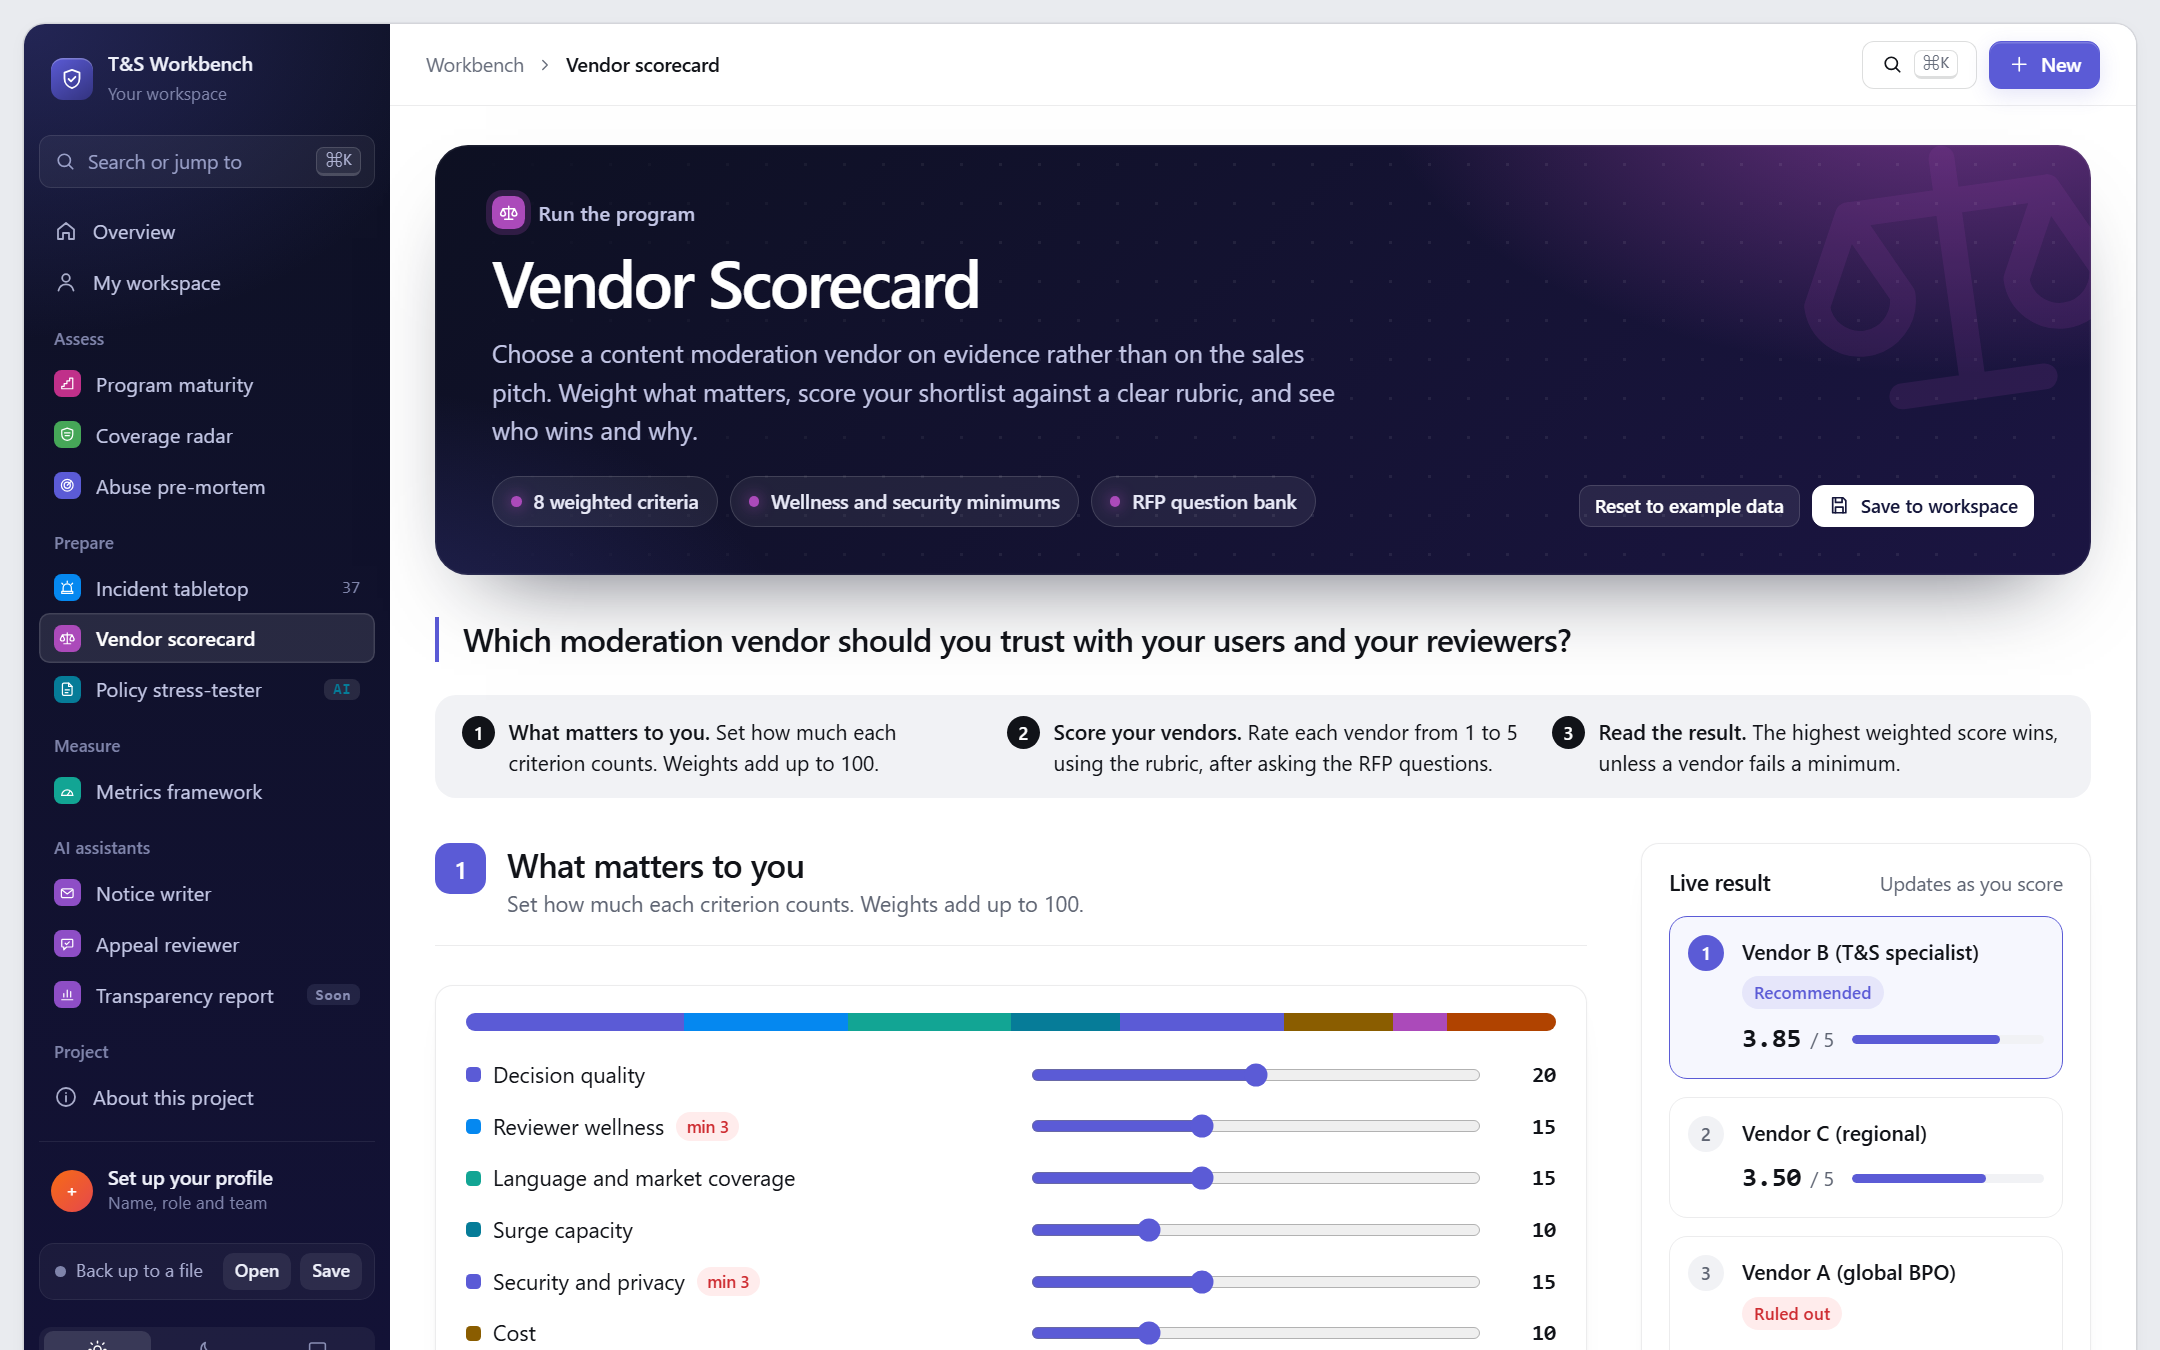
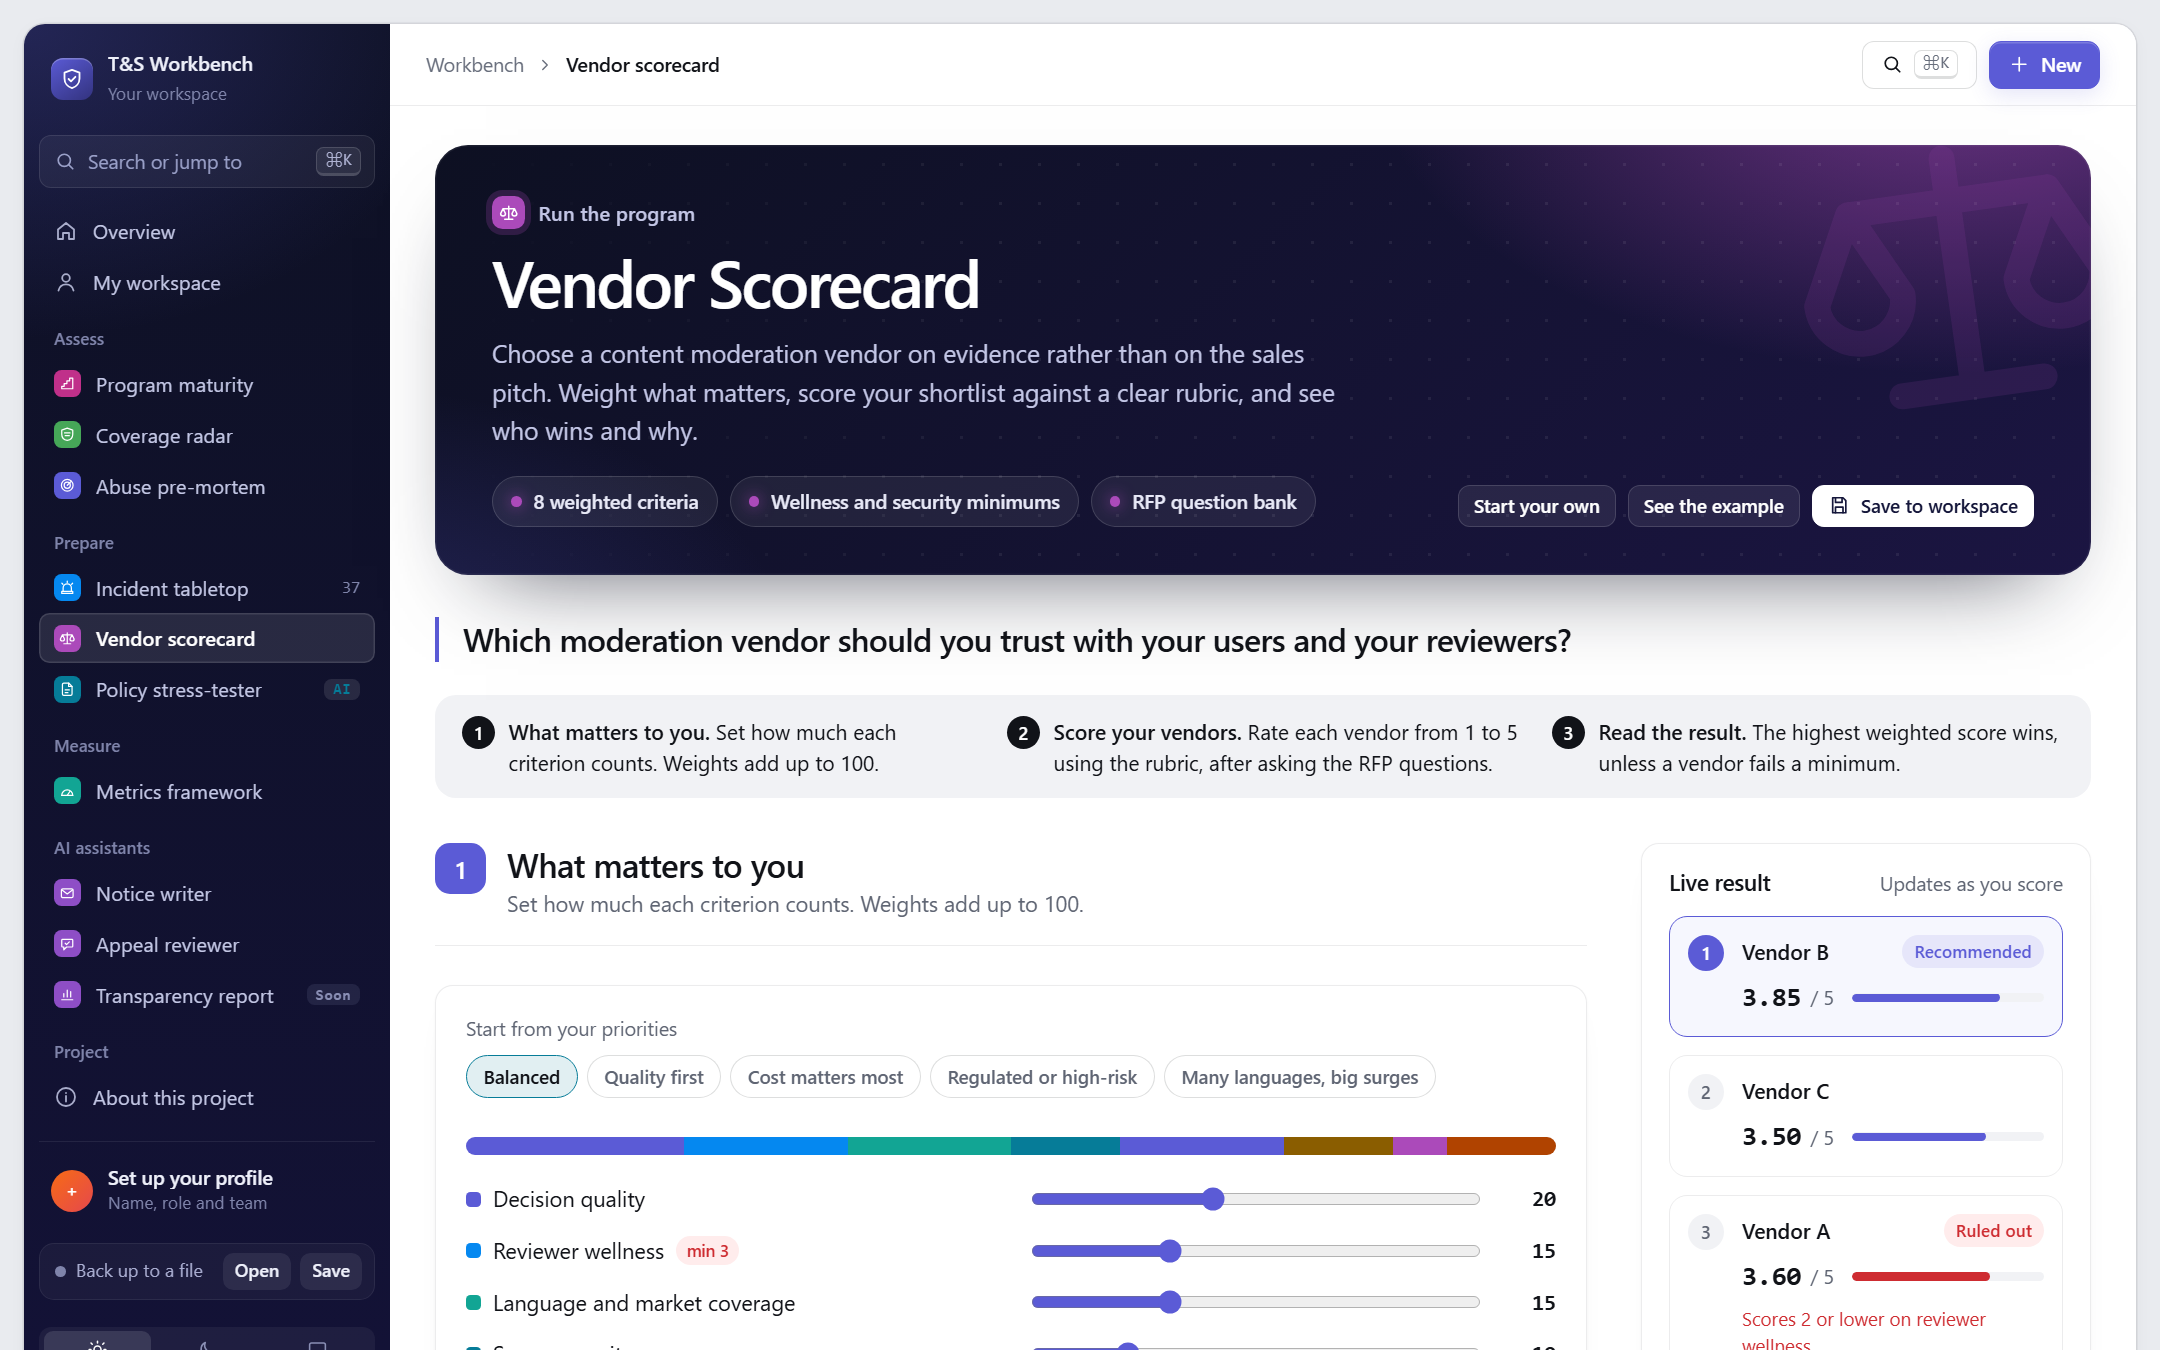
Vendor scorecard: any 2 to 4 vendors, neutral names, priority presets

diff --git a/README.md b/README.md
@@ -2,7 +2,7 @@
 
 > **Which moderation vendor should you trust with your users and your reviewers?**
 
-Weight what matters, score your shortlist against a clear 1-to-5 rubric on 8 criteria, and see who wins and why. Reviewer wellness and security are minimums: a vendor that fails them is out, however cheap.
+Compare any two to four moderation vendors: specialists, outsourcing firms, regional teams or tools. Weight what matters (or start from a preset such as regulated or cost-first), score your shortlist against a clear 1-to-5 rubric on 8 criteria, and see who wins and why. Reviewer wellness and security are minimums: a vendor that fails them is out, however cheap.
 
 **[Try it live](https://stevenmacchia.github.io/ts-workbench/#vendors)** · part of [T&S Workbench](https://github.com/stevenmacchia/ts-workbench) · free, no sign-up
 
@@ -35,6 +35,8 @@ The tool's knowledge, published as open content you can read, reuse and adapt.
 - Quarterly business reviews with an existing vendor
 
 ## More screenshots
+
+![vendors-own](assets/vendors-own.png)
 
 ![vendors-result](assets/vendors-result.png)
 
